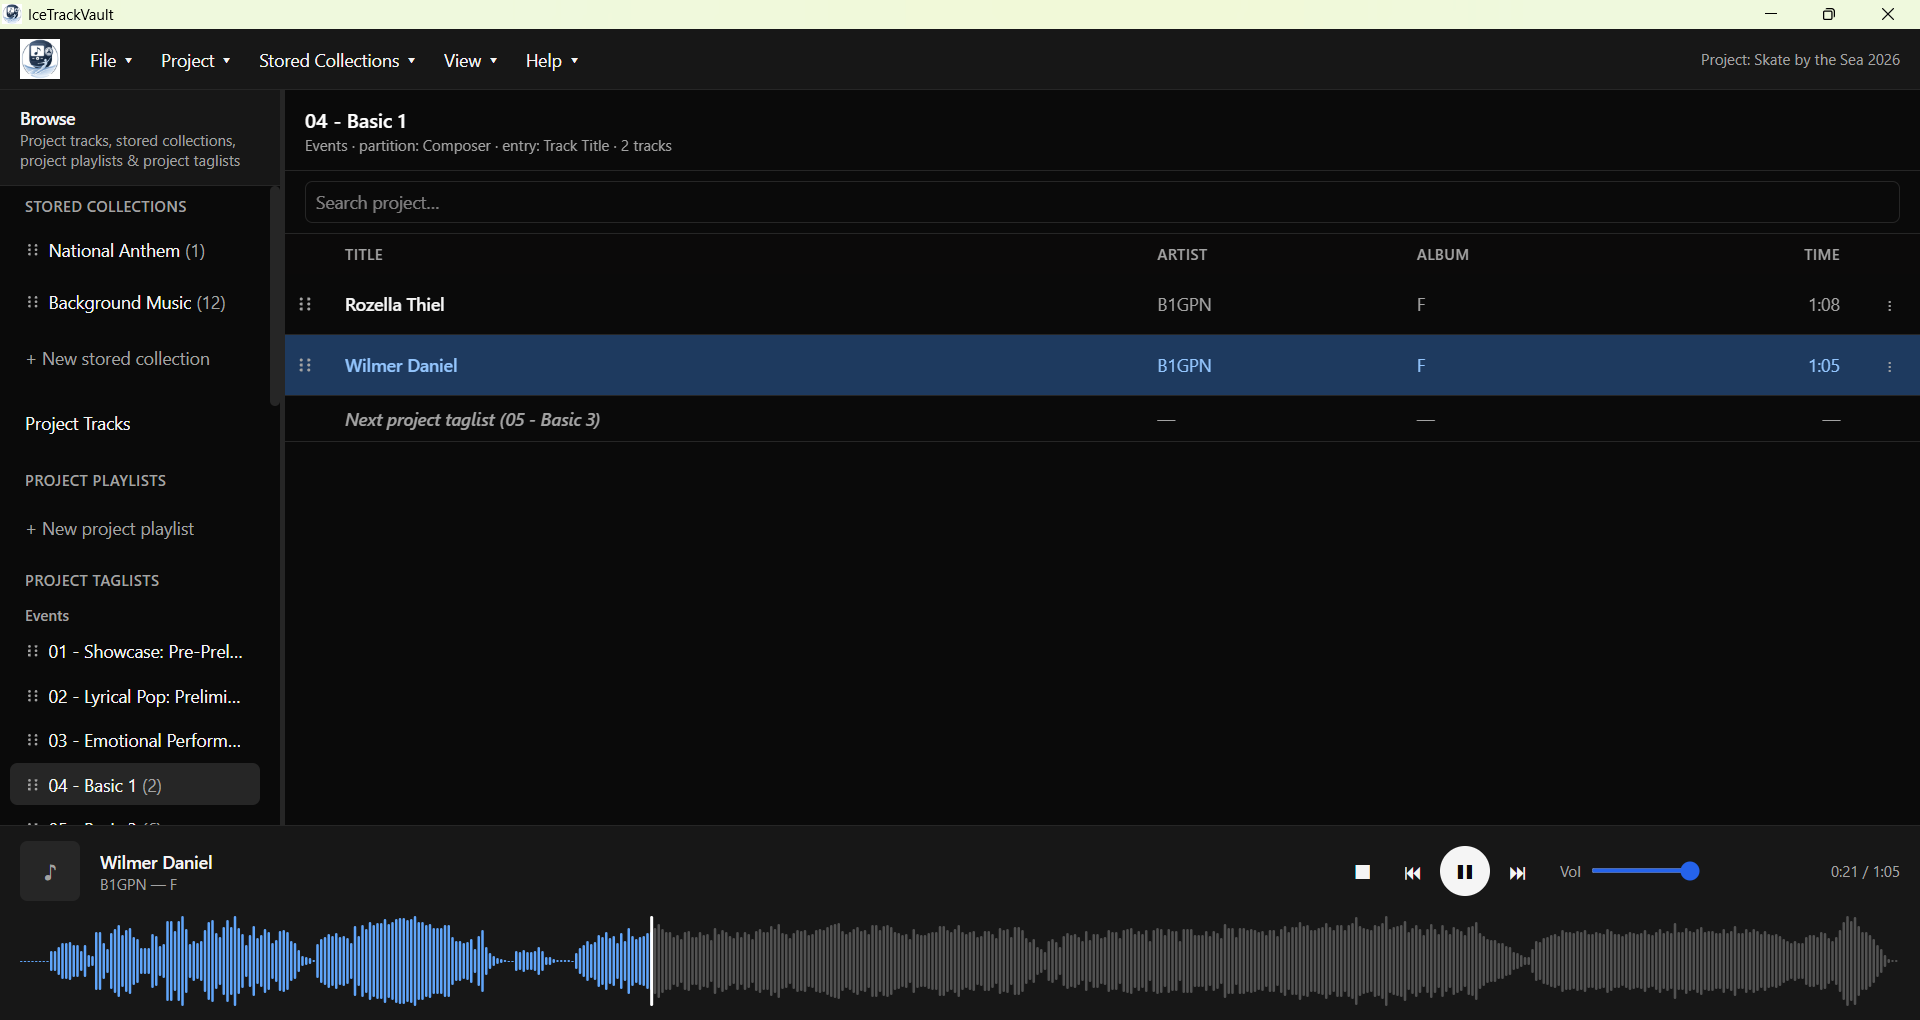
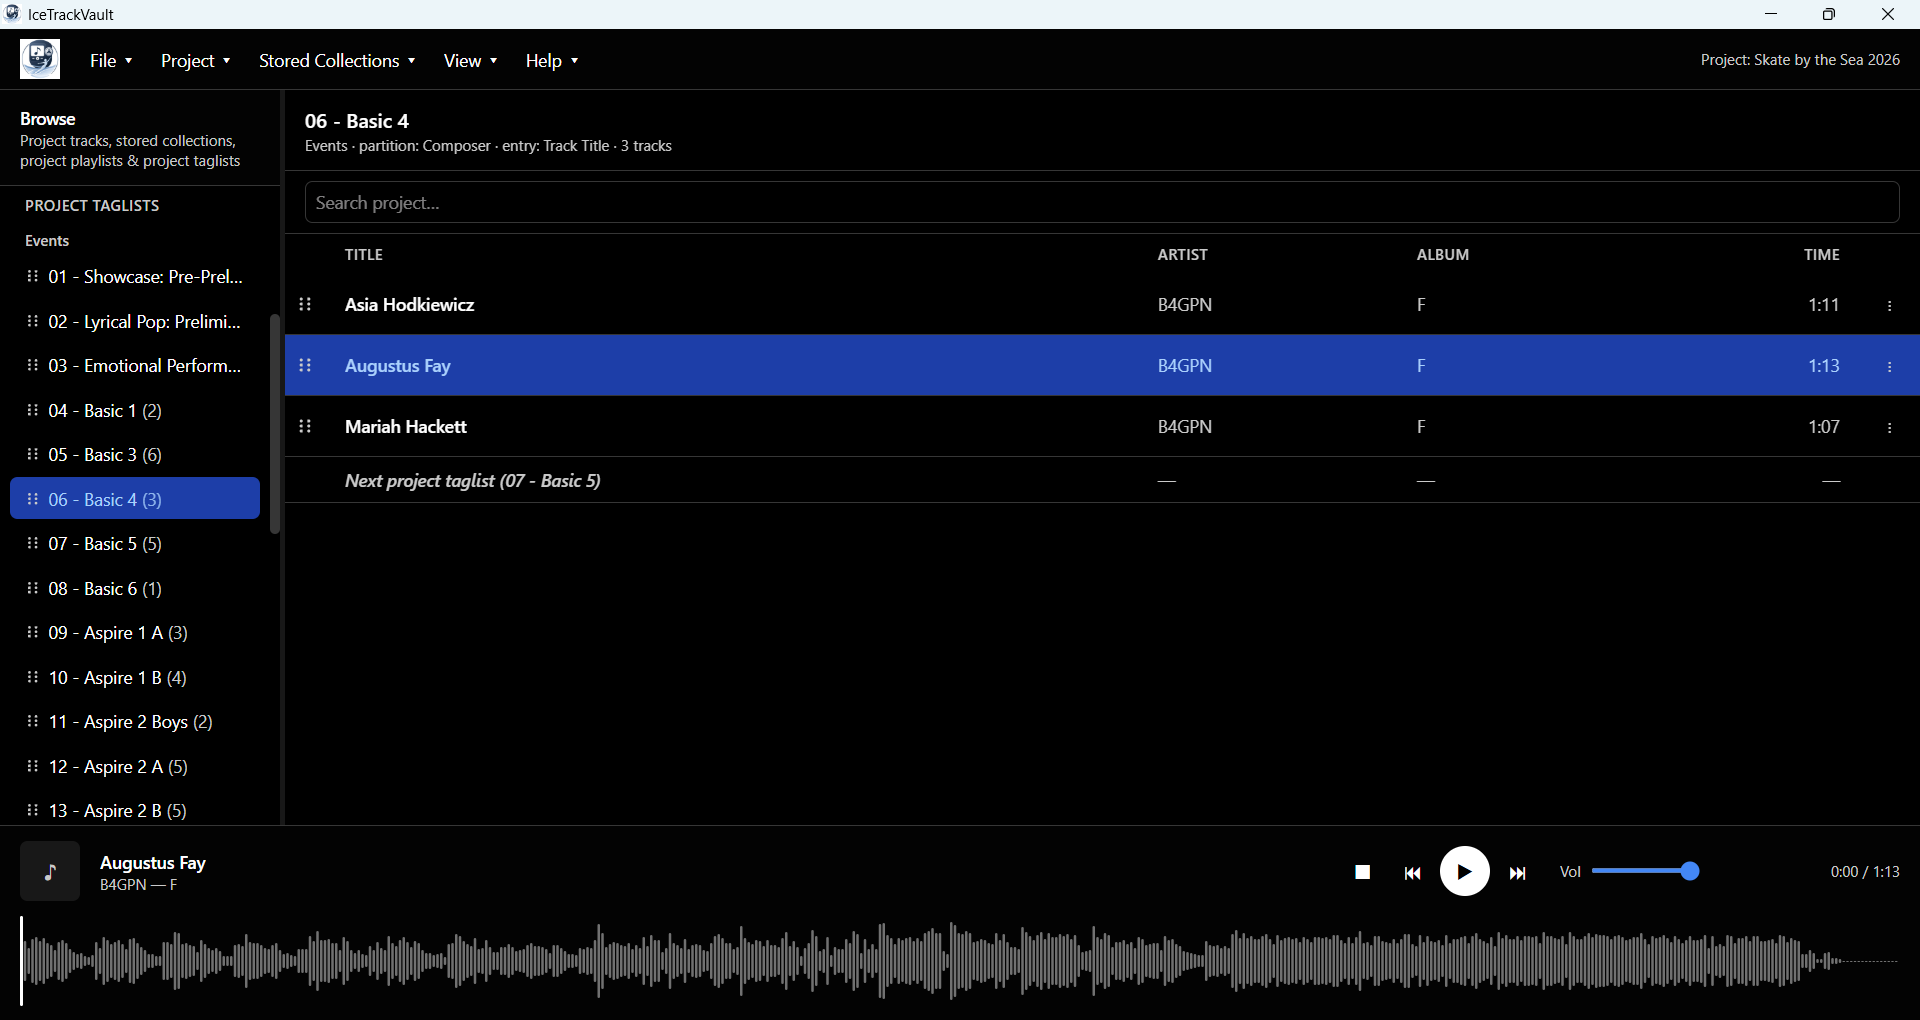
Documentation

diff --git a/docs-site/docs/guide/user-manual/using-music-player.md b/docs-site/docs/guide/user-manual/using-music-player.md
@@ -15,25 +15,21 @@ After a project is loaded, the window has three areas of interest:
 <figure class="screenshot-box">
   <img
     src="/screenshots/sample-view.png"
-    alt="IceTrackVault with an event selected: Events taglist in the sidebar, competitor tracklist in the center, and the player bar at the bottom"
+    alt="IceTrackVault main window after a fresh installation"
     data-zoomable
   />
-  <figcaption>An event selected under <strong>Events</strong>. The center lists that event’s tracks; the player bar shows the highlighted track. Click the image to view full size.</figcaption>
+  <figcaption>An event is selected in the sidebar. The center lists that event’s tracks; the player bar shows the highlighted track. Click the image to view full size.</figcaption>
 </figure>
 
-In the previous section, you saw all of the music tracks under **Project Tracks**. Below that, we see the tracks organized by **Events**. The list of events is called a **taglist** because the events are organized by an MP3 tag applied by EMS - similar to iTunes smartlists, but requiring much less work to set up.
+In the previous section, you saw all of the music tracks under **Project Tracks**. Below that, we see the tracks organized by **Events**. (The list of events is called a **taglist** because the events are organized by an MP3 tag applied by EMS.)
 
 ## Events and the Events taglist
 
-When loading EMS projects, IceTrackVault creates the **Events** under **Project Taglists** in the sidebar. 
-
-Each row under **Events** is one **event** (for example `04 - Basic 1`). IceTrackVault builds that list from the EMS-applied tags in the music tracks, plus the event names read from the EMS **Event Schedule** spreadsheet.
-
-The number in parentheses on each sidebar row, such as `(2)`, is how many tracks belong to that event.
+When loading EMS projects, IceTrackVault creates the **Events** list in the sidebar, showing the event number, the name (from the EMS schedule report), and the number of music tracks in that event.
 
 ### Select an event
 
-Click an event in the sidebar. The center panel switches to that event’s tracklist and shows the event name at the top, along with a track count.
+Click an event in the sidebar. The center panel switches to that event’s **tracklist** and shows the event name at the top, along with a track count.
 
 You can also use **Page Up** and **Page Down** to move to the previous or next event while an event view is open (see [Keyboard shortcuts](#keyboard-shortcuts)).
 
@@ -43,63 +39,56 @@ At the bottom of the **Events** list, **NO-TAG** lists project tracks that do no
 
 ## Per-event tracklist (competitors)
 
-With an event selected, the center table is the **skating order for that event**. Each row is one track - typically one competitor’s program.
+With an event selected, the center table shows the music tracks for that event. They can be reordered, to reflect start order, by grabbing and dragging the grab handle on the left side of the row. Here are the most important controls to use in the tracklist:
 
-**Single-click** a row to **highlight** it (cursor row). The player bar updates to that track’s information and waveform.
-
-**Double-click** a row (or press **Enter** while it is highlighted) to **load and play** play the track.
+- **Single-click** or use the **up-** and **down-arrow** keys to position a track for playing next.
+- **Double-click** on a row, or hit the **Enter** key on the highlighted row, to start the music.
 
 The **⋮** menu on each row opens actions such as editing tags, moving a skater to another event, replacing a file, or deleting a track. These operations are described in [Common problems](./common-problems).
 
 ### Search within the project
 
-The **Search project…** field above the table finds tracks across the whole project. Start typing a name to search for a competitor's events, and clear the search to return to the normal event list and drag handles.
+<figure class="screenshot-box">
+  <img
+    src="/screenshots/search.png"
+    alt="Searching for a name"
+    data-zoomable
+  />
+  <figcaption>Searching for a name</figcaption>
+</figure>
+
+The **Search project…** field above the table finds tracks across the whole project. Start typing a name to search for a competitor's events. You can select one of the matches to move to that event and track in the project.
 
 ### Jump to the next event
 
-At the end of each event, you'll see a footer row labeled **Next project taglist (…)** with the next event name. This provides an easy way to navigate to the next event directly from the current event's tracklist - without having to mouse over to the **Events** list.
+At the end of each event, you'll see a footer row labeled **Next project taglist (…)** with the next event name. This provides an easy way to navigate to the next event directly from the current event's tracklist - without having to mouse over to the **Events** list. You can move to the next event by double-clicking on that row, or hitting **Enter** when that row is selected.
 
 
-<!-- Screenshot opportunity: crop of the track table footer row "Next project taglist (05 - …)" with callout. Save as docs-site/docs/public/screenshots/taglist-next-event-footer.png -->
 
 ## Playing music
 
-
-
-### Highlight vs play
-
-IceTrackVault separates **which track is selected** from **what is loaded in the audio engine**:
-
-- **Highlighted (cursor) row** — shown with the cursor background color in the table. You can scrub the waveform and use **Home** / **End** to set a **preview** position before playing.
-- **Playing row** — shown with playing colors. Transport and seeking affect live playback.
-
-Press **P** to toggle play/pause. Play uses the preview position if you adjusted it while the track was only highlighted.
 
 ### Transport controls
 
 The player bar (bottom) provides:
 
-| Control | Action |
-|---------|--------|
-| **Stop (■)** | Stops playback and unloads the current track |
-| **Jump to beginning (⏮)** | Seeks to the start (or preview start if not yet playing) |
-| **Play / Pause** | Starts or pauses the highlighted or loaded track |
-| **Jump to end (⏭)** | Seeks near the end (useful for endings checks) |
-| **Volume** | Slider plus **←** / **→** keyboard adjustment |
 
-While the engine is seeking or loading, controls dim briefly and a **⌛** indicator appears; wait until it clears before clicking again.
+| Control                    | Keyboard Shortcut | Action                              |
+| -------------------------  | ---------------| -------------------------------------------------------- |
+| **Stop (■)**               | | Stops playback and resets the current track to the beginning         |
+| **Jump to beginning (⏮)**  | Home | Seeks to the music start |
+| **Play / Pause**           | P | Starts or pauses the highlighted or loaded track     |
+| **Jump to end (⏭)**        | End | Seeks near the music end      |
+| **Volume**                 | **←** / **→** | Slider    |
 
-### Waveform seeking
 
-The waveform shows peak levels for the highlighted or playing track. **Click** anywhere on the waveform to seek to that time. If the track is already playing, playback jumps immediately; if it is only highlighted, the click sets where **Play** will start.
+### Using the Waveform
 
-During play, the bright portion of the waveform shows progress; a cursor line marks the current time. Time readout on the right shows **elapsed / duration**.
-
-<!-- Screenshot opportunity: close-up of the player bar with transport, volume, time, and waveform during playback. Save as docs-site/docs/public/screenshots/player-bar-playing.png -->
+The waveform display in the player gives you a view into the track's volume, and also shows position and time while the track is playing. You can also click within the track to change playback position - even while the track is playing.
 
 ## Rearranging skating order and event order
 
-Competition order on the ice does not always match the EMS download. IceTrackVault lets you reorder **competitors within an event** and **events within the day** without re-importing ZIP files. Order is stored in the project database and is kept when you reopen the project.
+The order of events and competitors you see when the competition is first loaded might not match actual event or skating order. IceTrackVault lets you reorder **competitors within an event** and **events within the competition**. Order is stored in the project database and is kept when you reopen the project.
 
 ### Reorder competitors (rows in the tracklist)
 
@@ -108,7 +97,6 @@ Competition order on the ice does not always match the EMS download. IceTrackVau
 3. **Press and drag** the grip up or down. A line shows where the row will land.
 4. **Release** to save the new order.
 
-You can drag from the grip or from the row; avoid starting a drag from the **⋮** menu. Reordering is only available when you are viewing the full event list (not project search results).
 
 ### Reorder events (rows in the Events taglist)
 
@@ -118,40 +106,28 @@ You can drag from the grip or from the row; avoid starting a drag from the **⋮
 
 **NO-TAG** is not reorderable; it always stays at the bottom.
 
-Event order affects sidebar navigation, the **Next project taglist** footer, and **Page Up** / **Page Down** when moving between events.
 
-<!-- Screenshot opportunity: sidebar crop showing Events with one row mid-drag and a drop indicator between two events. Save as docs-site/docs/public/screenshots/reorder-events-sidebar.png -->
-
-<!-- Screenshot opportunity: track table crop showing grip handles and a drop indicator between two competitor rows. Save as docs-site/docs/public/screenshots/reorder-tracks-in-event.png -->
 
 ## Keyboard shortcuts
 
 Shortcuts work when focus is not in a text field. Open **Help → Keyboard shortcuts…** in the menu bar for the in-app list.
 
-| Keys | Action |
-|------|--------|
-| **↑** / **↓** | Previous / next track in the current event list (or move to/from the next-event footer) |
-| **Enter** | Play or restart the highlighted track; or open the next event from the footer |
-| **P** | Play / pause |
-| **←** / **→** | Volume down / up |
-| **Home** / **End** | Jump to beginning / near end of track |
-| **Page Up** / **Page Down** | Previous / next event in the sidebar (when viewing an event) |
 
-## Suggested screenshots for this chapter
+| Keys                        | Action                                                                                  |
+| --------------------------- | --------------------------------------------------------------------------------------- |
+| **↑** / **↓**               | Previous / next track in the current event list (or move to/from the next-event footer) |
+| **Enter**                   | Play or restart the highlighted track; or open the next event from the footer           |
+| **P**                       | Play / pause                                                                            |
+| **←** / **→**               | Volume down / up                                                                        |
+| **Home** / **End**          | Jump to beginning / near end of track                                                   |
+| **Page Up** / **Page Down** | Previous / next event in the sidebar (when viewing an event)                            |
 
-The following assets would complete this page beyond the main `sample-view.png` figure already embedded above.
+Once events and competitors are in order, you can run the entire competition with keyboard shortcuts: selecting tracks, starting tracks, moving to the next event. This saves mouse fatigue and helps avoid mistakes.
 
-| File (under `docs-site/docs/public/screenshots/`) | What to capture | Where to use |
-|---------------------------------------------------|-----------------|--------------|
-| `sample-view.png` | Full window: **Events** sidebar, one event’s tracklist, player with waveform | Main layout figure (already in use) |
-| `project-loaded.png` | **Project Tracks** selected, all tracks visible | Optional callout comparing “all tracks” vs event view |
-| `taglist-next-event-footer.png` | Bottom of event track table showing **Next project taglist (…)** | [Jump to the next event](#jump-to-the-next-event) |
-| `player-bar-playing.png` | Player bar during playback: pause icon, elapsed time, waveform progress | [Playing music](#playing-music) |
-| `reorder-tracks-in-event.png` | Track table with drag indicator between two rows | [Reorder competitors](#reorder-competitors-rows-in-the-tracklist) |
-| `reorder-events-sidebar.png` | **Events** list with drag indicator between two events | [Reorder events](#reorder-events-rows-in-the-events-taglist) |
-| `keyboard-shortcuts-dialog.png` | **Help → Keyboard shortcuts…** modal | [Keyboard shortcuts](#keyboard-shortcuts) |
+
 
 ## What to read next
 
 - [Solutions for common problems](./common-problems) — wrong file, missing music, moving skaters between events, EMS re-downloads.
 - [Stored collections](./stored-collections) — anthems and other libraries outside the competition project.
+
